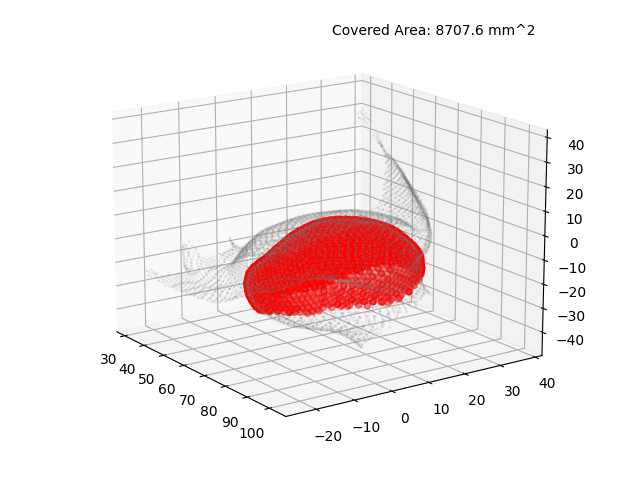
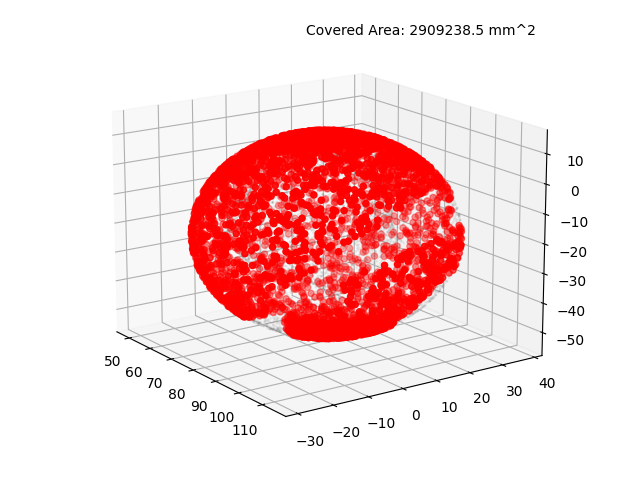
results for sphere

diff --git a/src/mri/hip_project/distance_between_meshs_from_stl.py b/src/mri/hip_project/distance_between_meshs_from_stl.py
@@ -375,6 +375,12 @@ def nearest_algorithm(femur_mesh, pelvis_mesh, threshold, figures_path):
 
 def compare_area_covered_different_thersholds(pelvis_path, femur_path, threshold_list=[5, 10, 15], algorithm='nearest'):
 
+
+    print(f"Comparing meshes: ")
+    print(f"Pelvis: {pelvis_path}")
+    print(f"Femur: {femur_path}")
+          
+    
     # Paths to save the figures
     figures_path = os.path.join(os.path.dirname(femur_path), 'figures')
     csv_path = os.path.join(figures_path, 'distances.csv')
@@ -394,7 +400,7 @@ def compare_area_covered_different_thersholds(pelvis_path, femur_path, threshold
     # loop through the thresholds to calculate the covered area
     for threshold in threshold_list:
 
-        start_time = time.time()
+        
 
         if algorithm == 'nearest':
             nearest_algorithm(pelvis, femur, threshold, figures_path)
@@ -404,58 +410,76 @@ def compare_area_covered_different_thersholds(pelvis_path, femur_path, threshold
 
 
 
-
-
-
 def plot_summary_results():
 
     paths = Project()
 
     # summarise all results in a single csv file
-    sumaary_csv_path = os.path.join(paths.example_folder, 'summary.csv')
-    all_results = pd.DataFrame()
+    all_results = pd.DataFrame(columns=['subject', 'threshold', 'covered_area', 'algorithm'])
     for subject in os.listdir(paths.example_folder):
-        csv_path = os.path.join(paths.example_folder, subject, f"figures", f"distances.csv")
+        
+        # add the results for the sphere algorithm
         try:
-            results = pd.read_csv(csv_path)
-            results['subject'] = subject
-            all_results = pd.concat([all_results, results])
+            sphere_csv_path = os.path.join(paths.example_folder, subject, f"figures", f"fit_sphere_algoritm.csv")
+            sphere_results = pd.read_csv(os.path.join(paths.example_folder, subject, f"figures", f"fit_sphere_algoritm.csv"))
+            sphere_results['subject'] = subject 
+            sphere_results['algorithm'] = 'fit_sphere_algoritm' # add column with algorithm name
+            all_results = pd.concat([all_results, sphere_results])
         except Exception as e:
-            print(f"Error: Could not read {csv_path}")
+            print(f"Error: Could not read {sphere_csv_path}")
             print(e)
-    all_results.to_csv(sumaary_csv_path, index=False)
+        
+        # add the results for the nearest algorithm
+        try:
+            nearest_csv_path = os.path.join(paths.example_folder, subject, f"figures", f"nearest_algoritm.csv")
+            nearest_results = pd.read_csv(os.path.join(paths.example_folder, subject, f"figures", f"nearest_algoritm.csv"))
+            nearest_results['subject'] = subject
+            nearest_results['algorithm'] = 'nearest' # add column with algorithm name
+            all_results = pd.concat([all_results, nearest_results])
+        except Exception as e:
+            print(f"Error: Could not read {nearest_csv_path}")
+            print(e)
+            
 
-    print(f"Summary results saved at: {sumaary_csv_path}")
+            
+    # save the summary results to a csv file     
+    summary_csv_path = os.path.join(paths.example_folder, 'summary.csv')            
+    all_results.to_csv(summary_csv_path, index=False)
+    print(f"Summary results saved at: {summary_csv_path}")
 
     # plot the summary results
+    try:
+        X = all_results['subject'].unique()
+        # one subplot for each algorithm
+        fig = plt.figure()
+        n_subplots = len(all_results['algorithm'].unique())
+        for algorithm in all_results['algorithm'].unique():
+            algorithm_results = all_results[all_results['algorithm'] == algorithm]
+            Y = algorithm_results['covered_area'].groupby([algorithm_results['subject'], algorithm_results['threshold']]).mean()      
+            Y.unstack().plot(kind='bar', ax=fig.add_subplot(1,n_subplots,1), title=algorithm)
+            
+            plt.ylabel('Covered Area (mm^2)')
+            plt.xlabel('Subject')
+            plt.title(algorithm)
+            plt.xticks(rotation=45)
+            plt.tight_layout()
 
-    X = all_results['subject'].unique()
-    Y = all_results['covered_area'].groupby(all_results['subject']).mean()
-    Y_per_threshold = all_results['covered_area'].groupby([all_results['subject'], all_results['threshold']]).mean()
-
-    fig = plt.figure()
-    Y_per_threshold.unstack().plot(kind='bar', ax=fig.add_subplot(111))
-
-    plt.ylabel('Covered Area (mm^2)')
-    plt.xlabel('Subject')
-    plt.title('Covered Area by Subject')
-    plt.xticks(rotation=45)
-    plt.tight_layout()
-
-    save_file_path = os.path.join(paths.example_folder, 'summary.png')
-    plt.savefig(save_file_path)
-    plt.show()
-
+        save_file_path = os.path.join(paths.example_folder, 'summary.png')
+        plt.savefig(save_file_path)
+        plt.show()
+    except Exception as e:
+        print(f"Error: Could not plot summary results")
+        print(e)
 
 if __name__ == "__main__":
 
     ####################################################################################################
     #                                      Edit settings here                                          #
     ####################################################################################################
-    skip = False
+    skip = True
     legs = ["r", "l"]
     thresholds = [10, 15]
-    skip_subjects = ["009", "010"]
+    skip_subjects = ["013"]
     algorithm = 'fit_sphere_algoritm' # 'nearest' or 'fit_sphere_algoritm'
 
 
